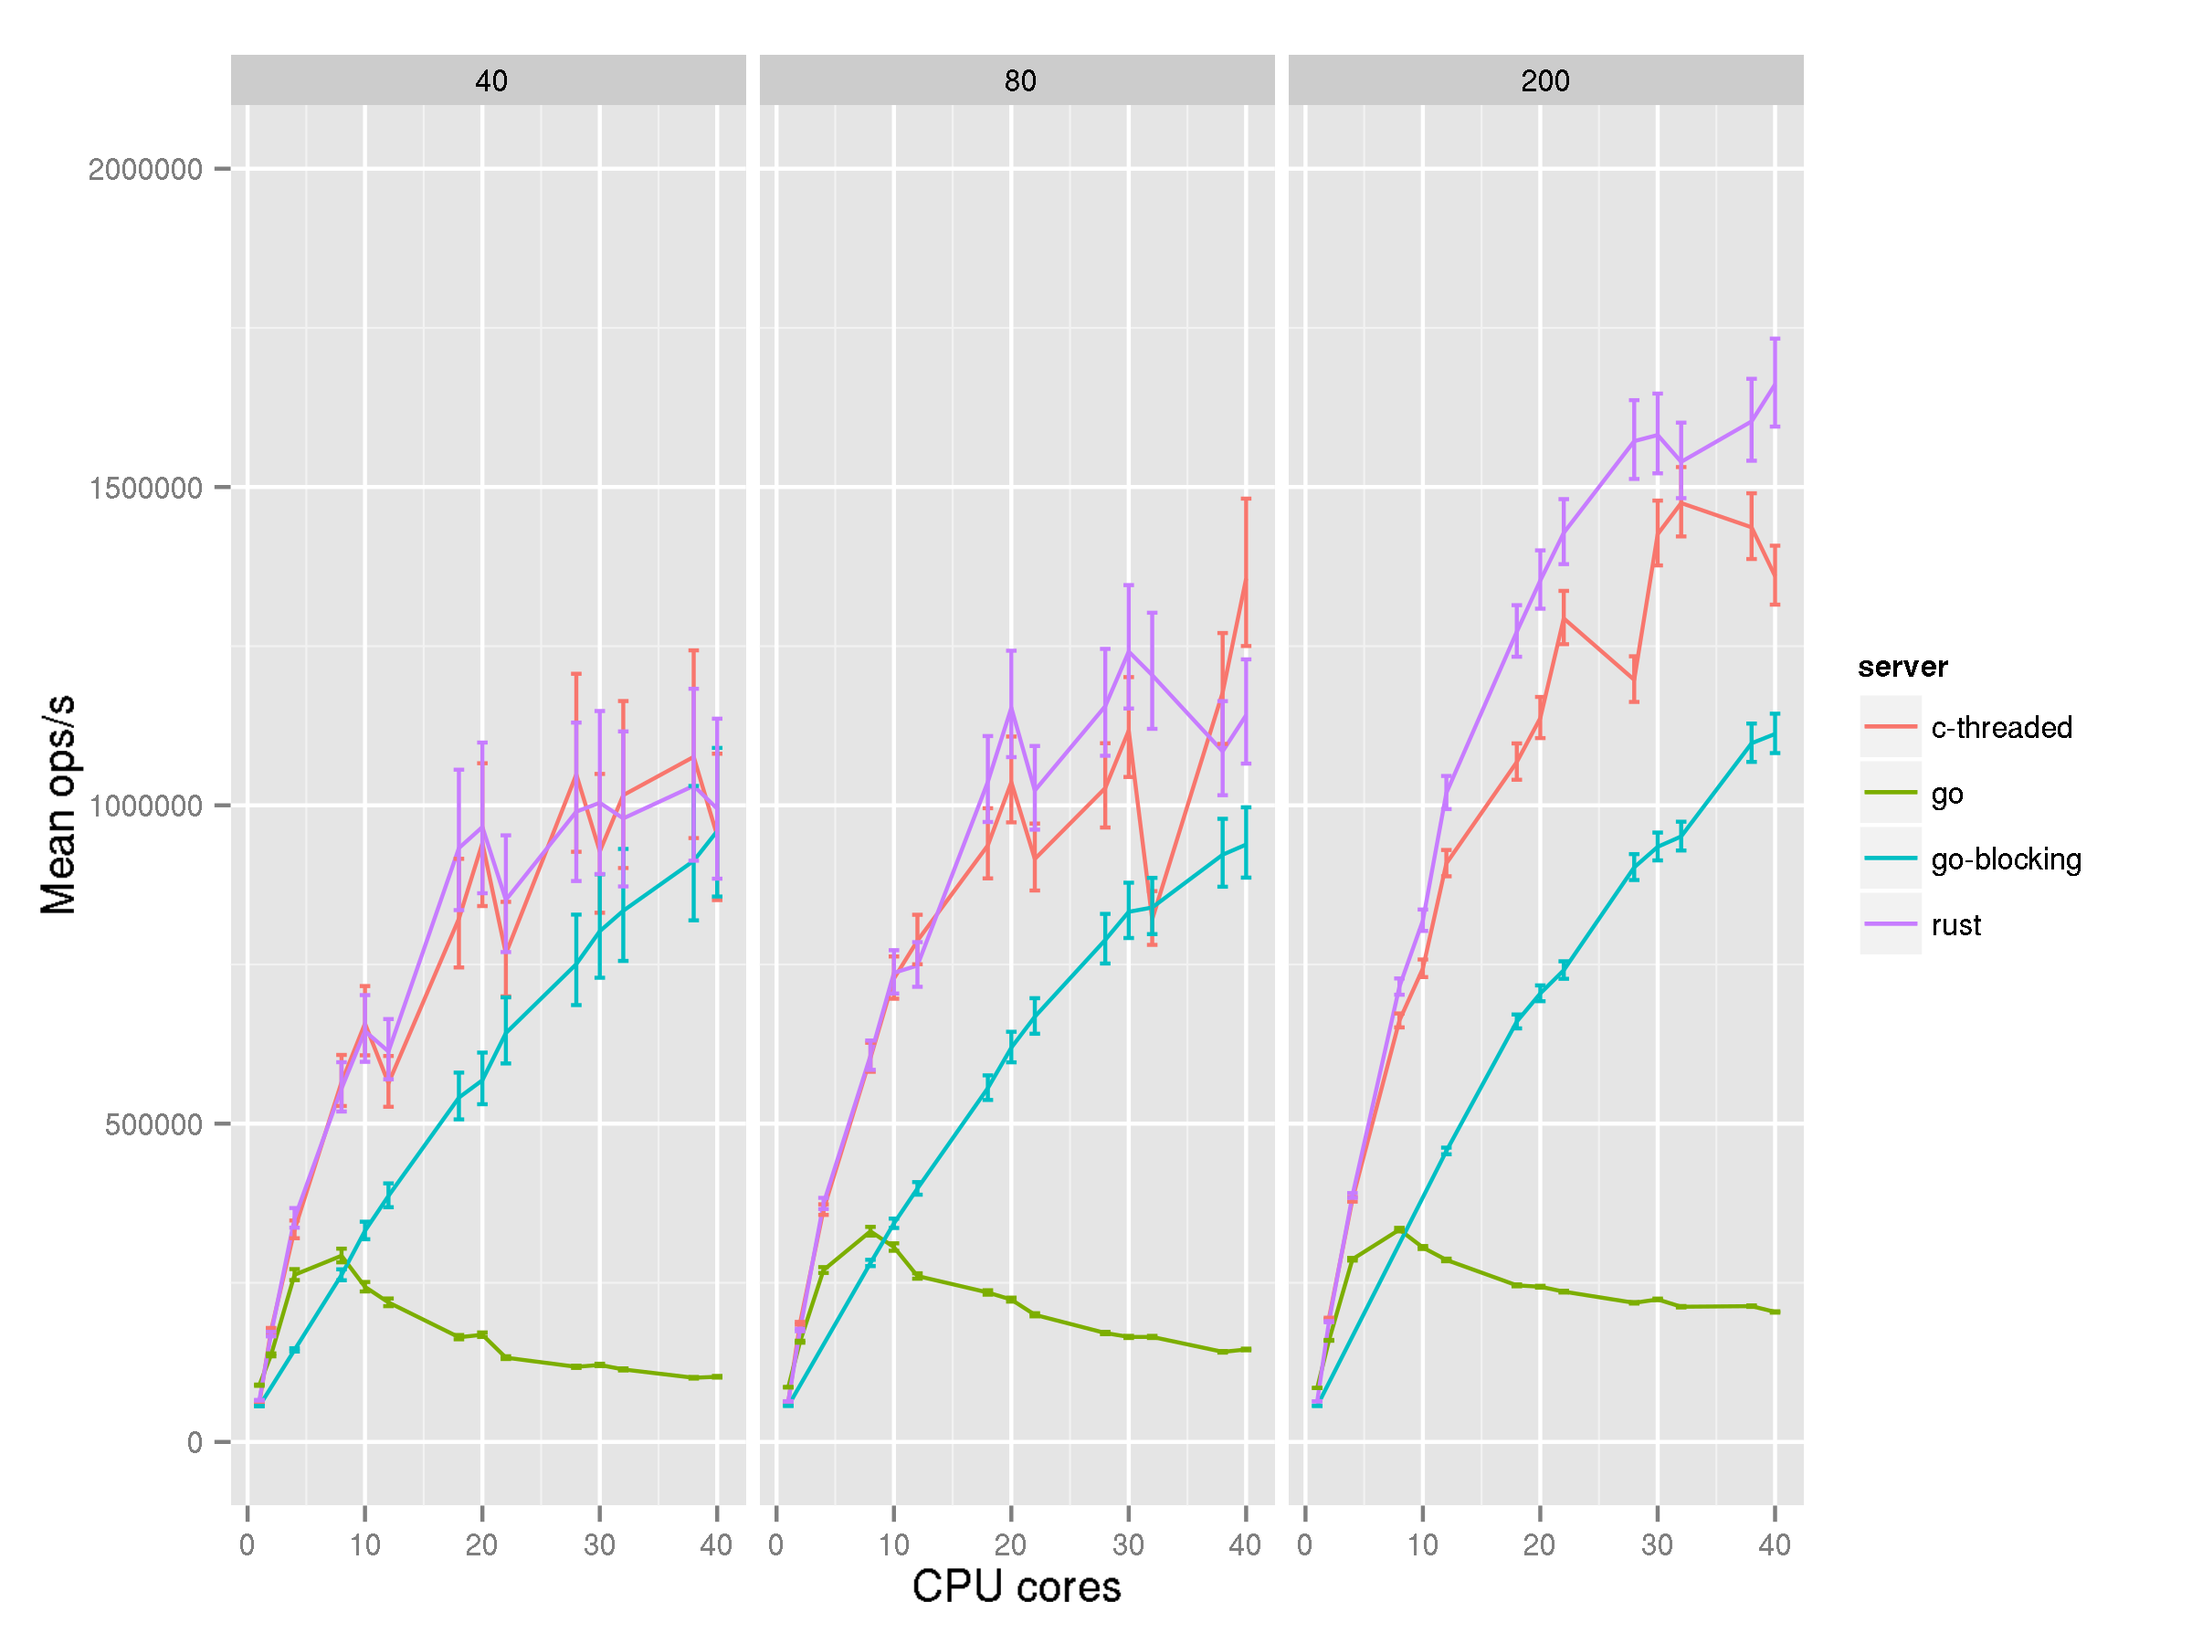
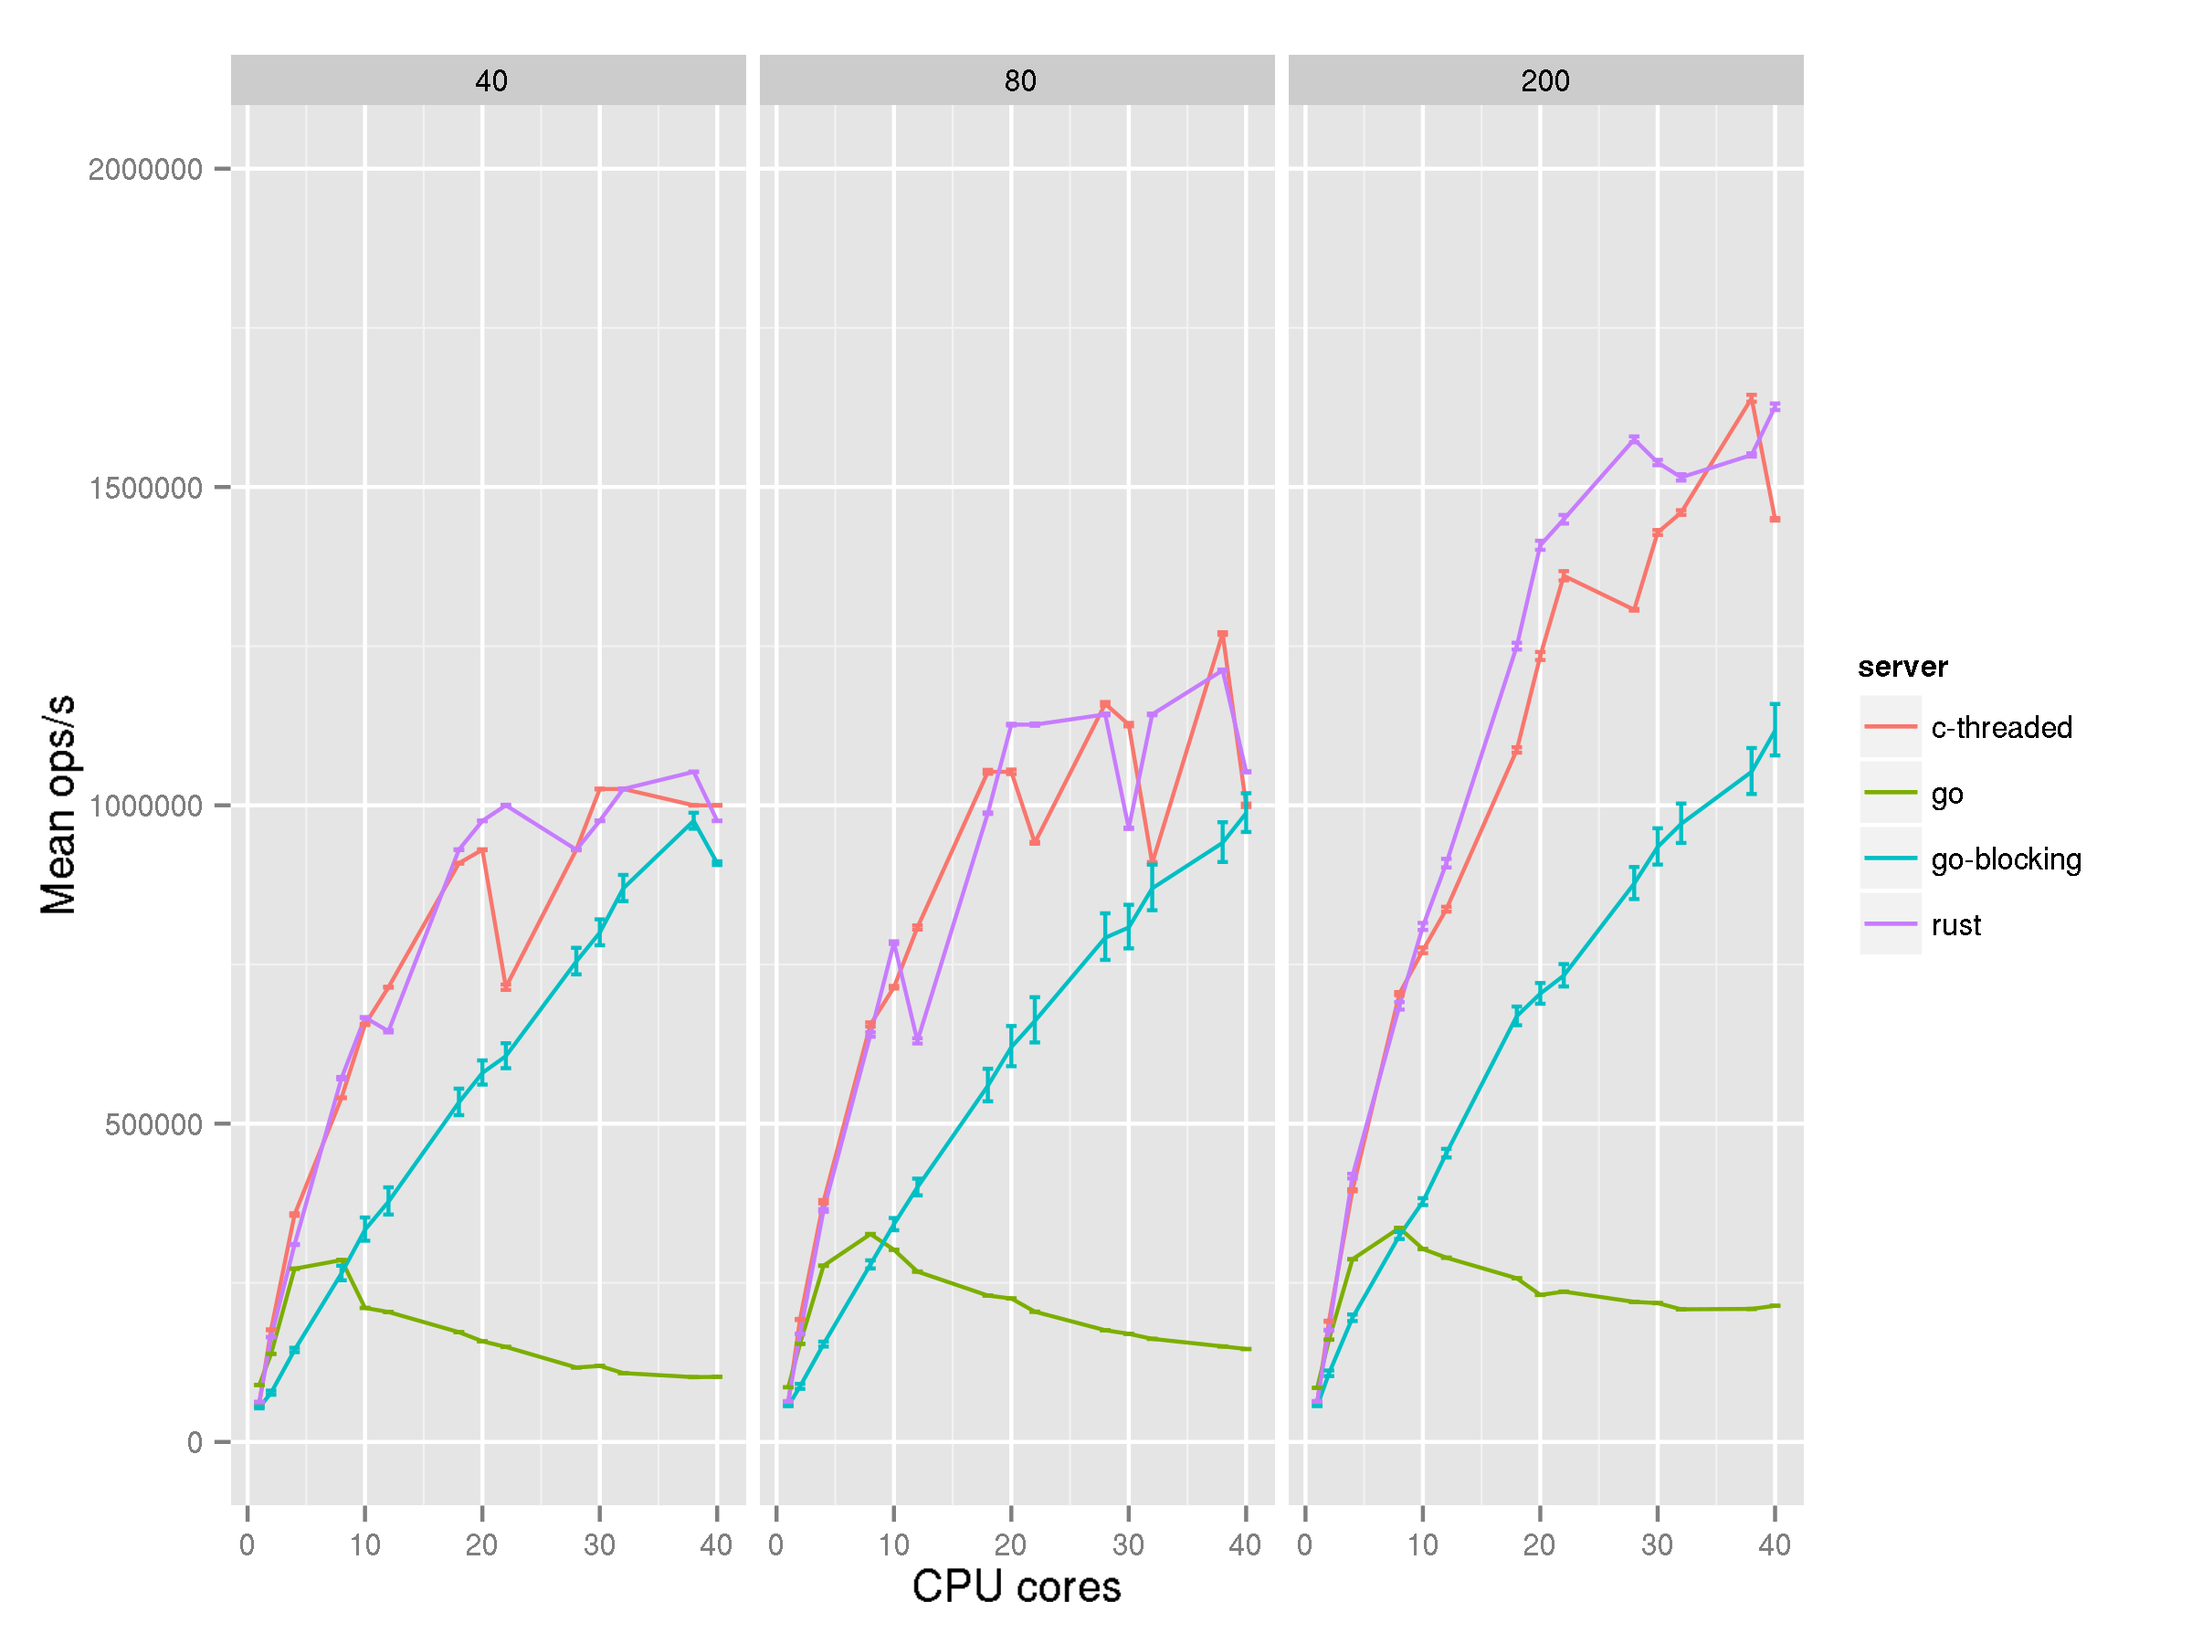
Update with better confidence plotting

diff --git a/README.md b/README.md
@@ -16,7 +16,7 @@ results.
 
 Running the volley benchmarks on an 80-core machine running Linux 3.16
 with 40, 80 and 200 clients distributed across 40 cores yields the
-results given in the graph below. Error bars denote the 95% confidence
+results given in the graph below. Error bars denote the 99% confidence
 interval. The benchmark machine has four NUMA nodes, each with 10 cores.
 
 ![performance plot](https://cdn.rawgit.com/jonhoo/volley/60f41129201553a9e3e8af57b22e0a2a0e935e86/benchmark/perf.png)
@@ -25,7 +25,7 @@ To reproduce, run:
 
 ```
 benchmark/ $ experiment -r $(PWD)/..
-benchmark/ $ grep us 'out/*/run-1/stdout.log' | sed 's@/run-[^/]*/stdout.log@@' | tr '/:-' '\t' | awk '{printf $2; for (i=3;i<NF-4;i++){printf "-"$i} print $(NF-4)" "$(NF-3)" "$(NF-2)" "$(NF-1)" "$NF}' > plot.dat
+benchmark/ $ grep us 'out/*/run-1/stdout.log' | sed 's@/run-[^/]*/stdout.log@@' | tr '/:-' '\t' | awk '{printf $2; for (i=3;i<NF-4;i++){printf "-"$i} for (i=NF-4;i<=NF;i++){printf " "$i} print ""}'
 ```
 
 And plot using the R script in `benchmark/plot.R`. Experiment can be
